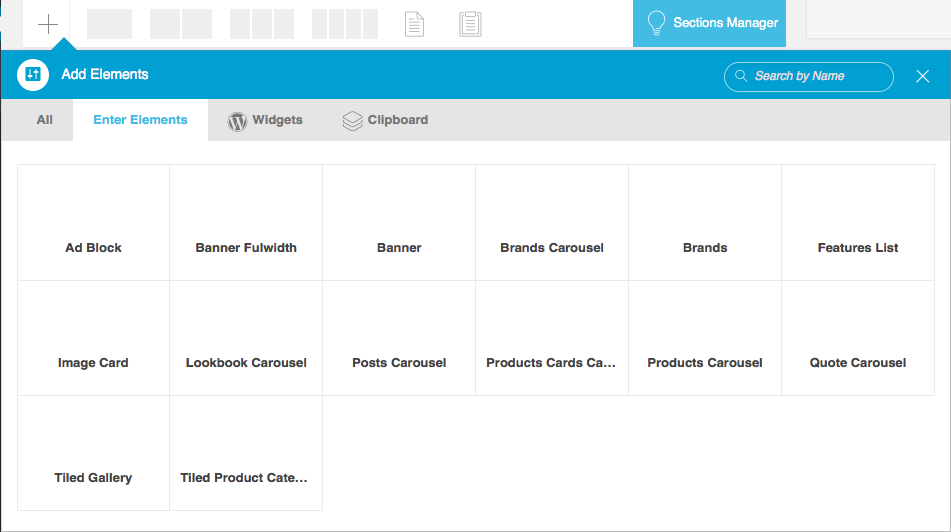
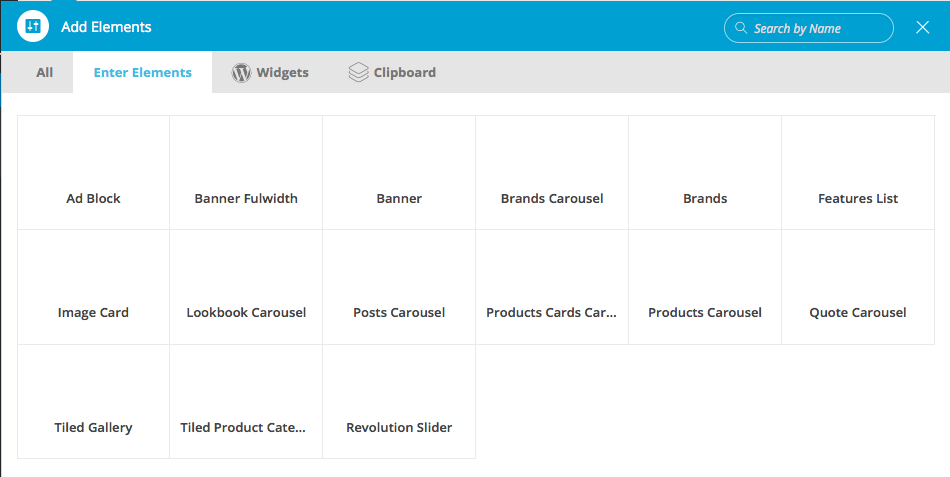
changes

diff --git a/gitbook/enter/setup/advanced_megamenu_dropdown.md b/gitbook/enter/setup/advanced_megamenu_dropdown.md
@@ -7,7 +7,7 @@ We built our simple Megamenu in previous section. We are now going to build a li
 * Navigate to **Static Content > Static Blocks**.
 * It should display the **"Megamenu"** that we created from previous section.
 * Click on edit and you should see an existing text block.
-* Delete the text edit block by hovering over the block and clicking on the button which has the trash icon.
+* Delete the text edit block by hovering over the block and clicking on the button which has the close icon.
 
 ![](http://transvelo.github.io/docs/enter/images/edit-test-megamenu-item.png)
 
@@ -30,16 +30,16 @@ We built our simple Megamenu in previous section. We are now going to build a li
 #### Row 1 has 4 columns.
 * Column 1 - Click on the **Add Element** button. It should popup **Add Element** button. Let us add **Custom Menu** widget under **Widgets**. I have already created a menu (via **Appearance > Menus**).
  * **Widget Title** : Clothes
- * **Select Menu** : Menu 1 ( name of the menu created already)
+ * **Select Menu** : Megamenu 1 ( name of the menu created already)
 * Column 2 -  Click on the **Add Element** button. It should popup **Add Element** button. Let us add **Custom Menu** widget under **Widgets**. I have already created a menu (via **Appearance > Menus**).
  * **Widget Title** :
- * **Select Menu** : Menu 2 ( name of the menu created already)
+ * **Select Menu** : Megamenu 2 ( name of the menu created already)
 * Column 3 -  Click on the **Add Element** button. It should popup **Add Element** button. Let us add **Custom Menu** widget under **Widgets**. I have already created a menu (via **Appearance > Menus**).
  * **Widget Title** :
- * **Select Menu** : Menu 3 ( name of the menu created already)
+ * **Select Menu** : Megamenu 3 ( name of the menu created already)
 * Column 4 -  Click on the **Add Element** button. It should popup **Add Element** button. Let us add **Custom Menu** widget under **Widgets**. I have already created a menu (via **Appearance > Menus**).
  * **Widget Title** :
- * **Select Menu** : Menu 4 ( name of the menu created already)
+ * **Select Menu** : Megamenu 4 ( name of the menu created already)
 
 ### 3. How does the Grid look after populating ?
 

diff --git a/gitbook/enter/king_composer/README.md b/gitbook/enter/king_composer/README.md
@@ -4,7 +4,7 @@
 
 ## Enter Elements
 
-There are 14 additional elements that are made available via **Enter Extensions** plugin.They are :
+There are 15 additional elements that are made available via **Enter Extensions** plugin.They are :
 
 1. [Ad Block](ad_block.md)
 2. [Banner Fullwidth](banner_fullwidth.md)
@@ -20,6 +20,7 @@ There are 14 additional elements that are made available via **Enter Extensions*
 12.[Quote Carousel](quote_carousel.md)
 13.[Tiled Gallery](tiled_gallery.md)
 14.[Tiled Product categories](tiled_product_categories.md)
+14.[Revolutions Slider](revolution_slider.md)
 
 
 ![](http://transvelo.github.io/docs/enter/images/king-composer-enter-elements.png)

diff --git a/gitbook/enter/theme_options_panel/navigation.md b/gitbook/enter/theme_options_panel/navigation.md
@@ -5,12 +5,11 @@
 
 #### Primary Navigation
 
-* Set a Dropdown Style for Primary Navigation.
 * Set a Dropdown Trigger for Primary Navigation.
-* Set a Dropdown Animation for Primary Navigation.
-* Enable / Disable the Show Dropdown Indicator.
+* Set a Dropdown Trigger for Secondary Navigation.
+* Set a Dropdown Trigger for Top Bar Navigation.
 
-![](http://transvelo.github.io/docs/mybag/images/theme-options-navigation.png)
+![](http://transvelo.github.io/docs/enter/images/theme-options-navigation.png)
 
 
 

diff --git a/gitbook/enter/setup/building_pages.md b/gitbook/enter/setup/building_pages.md
@@ -34,7 +34,7 @@ Enter has 12 Page templates and they are :
 9. **Homepage v6 Template** - This template will dislay **Home v6** page.
 10.**Homepage v7 Template** - This template will dislay **Home v7** page.
 11.**Homepage v8 Template** - This template will dislay **Home v8** page.
-12.*Homepage v9 Template** - This template will dislay **Home v9** page.
+12.**Homepage v9 Template** - This template will dislay **Home v9** page.
 
 ### Enter Page Options Meta Box
 

diff --git a/gitbook/enter/dummy_data/README.md b/gitbook/enter/dummy_data/README.md
@@ -30,6 +30,5 @@ Once you had downloaded the package from ThemeForest, you can find the dummy dat
 * For **Front Page** choose **Home** and for **Blog Page** choose **Blog**.
 * Now Navigate to **WooCommerce > Settings** and click on **Product** tab.
 * Choose **Shop** page for **Product Archive/Shop Page** option.
-* Navigate to **Enter > Shop ** Tab, scroll down to **Shop Comparison** page.
-* Choose **Compare** page and click on **Save Changes**.
+
 

diff --git a/gitbook/enter/SUMMARY.md b/gitbook/enter/SUMMARY.md
@@ -53,6 +53,7 @@
    * [Footer](theme_options_panel/footer.md)
    * [Shop](theme_options_panel/shop.md)
    * [Blog](theme_options_panel/blog.md)
+   * [Navigation](theme_options_panel/navigation)
    * [Typography](theme_options_panel/typography.md)
    * [Custom Code](theme_options_panel/custom_code.md)
    * [Social Media](theme_options_panel/social_media.md)

diff --git a/gitbook/enter/theme_options_panel/shop.md b/gitbook/enter/theme_options_panel/shop.md
@@ -6,7 +6,6 @@
 
 * Enable / Disable the Catalog Mode.
 * Choose a Product Attribute that will be used as Brands.
-* Set Shop Comparison Page as Compare.
 
 #### Shop/Catalog Pages
 

diff --git a/gitbook/enter/setup/pre-built_pages.md b/gitbook/enter/setup/pre-built_pages.md
@@ -14,6 +14,7 @@
 11. Home v7
 12. Home v8
 13. Home v9
+14. Lookbook
 
 
 

diff --git a/gitbook/enter/king_composer/revolutions_slider.md b/gitbook/enter/king_composer/revolutions_slider.md
@@ -1,0 +1,1 @@
+# Revolutions Slider
